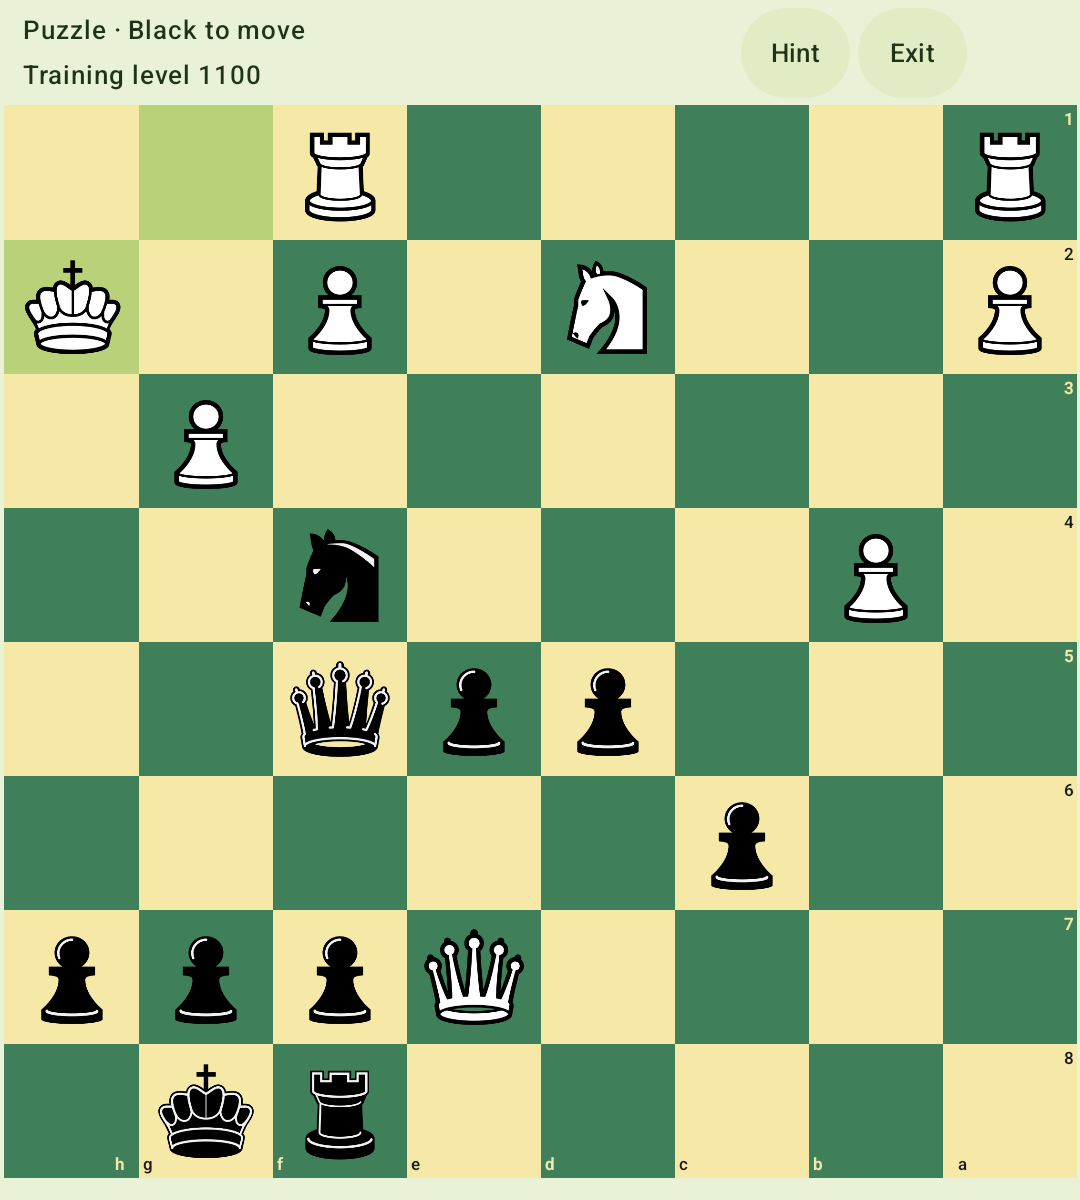
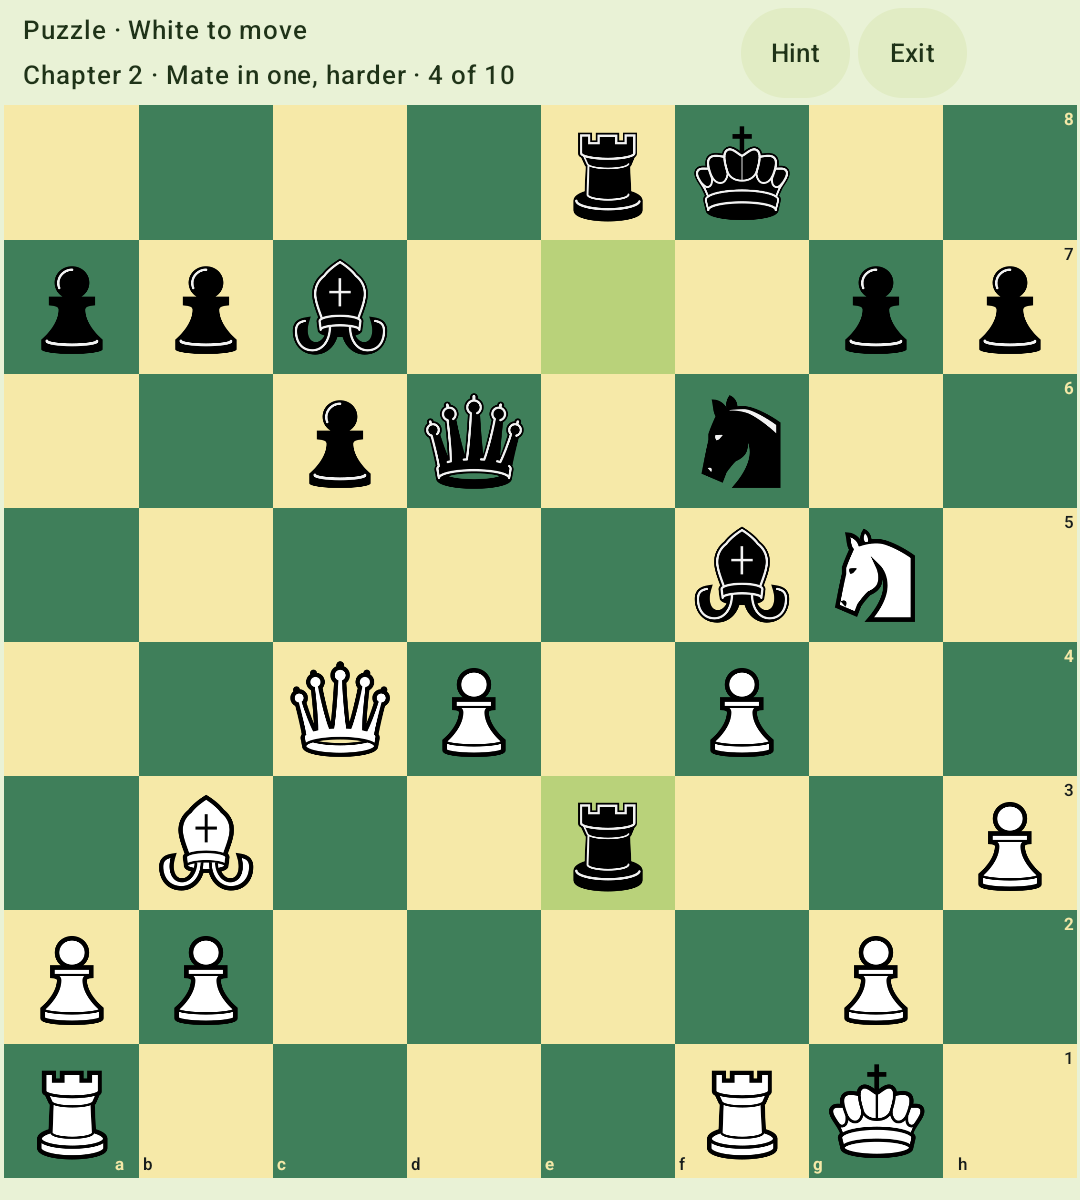
1.7.0: store screenshots of the course, a course puzzle and the ratings; sync screen text; release date
The sign-in screen no longer mentions the training level.

diff --git a/CHANGELOG.md b/CHANGELOG.md
@@ -1,6 +1,6 @@
 # Changelog
 
-## 1.7.0
+## 1.7.0 — 28 November 2026
 - Puzzle course: 27 short chapters of ten puzzles, from mate in one to endgames, with stars and a tip for each chapter.
 - More ways to train puzzles: 29 single themes (fork, pin, back-rank mate and more), repeat sets of 10, 20 or 50 puzzles solved again and again with a time for each cycle, and a daily goal with a streak.
 - After a wrong move in a puzzle, the app explains why it fails ("After d5, Black plays Bxf8. Black winning.") and can show the reply on the board.
